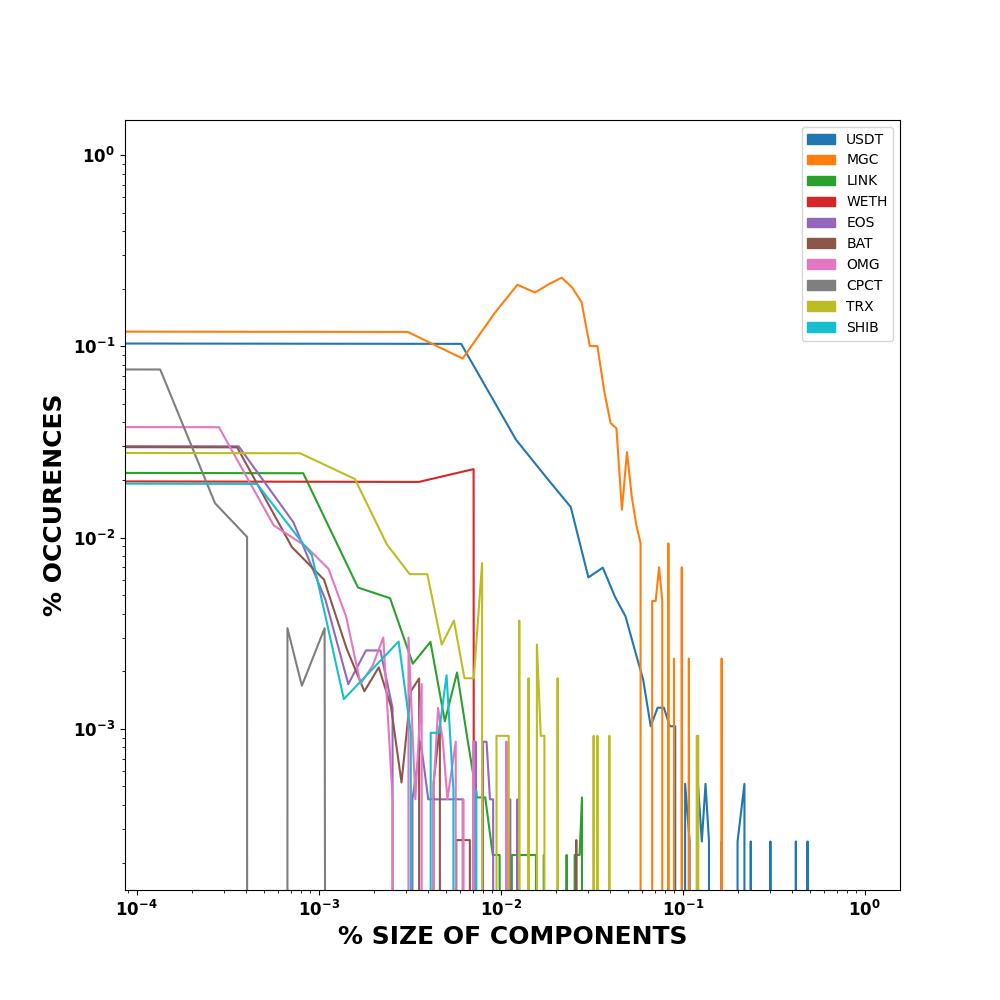
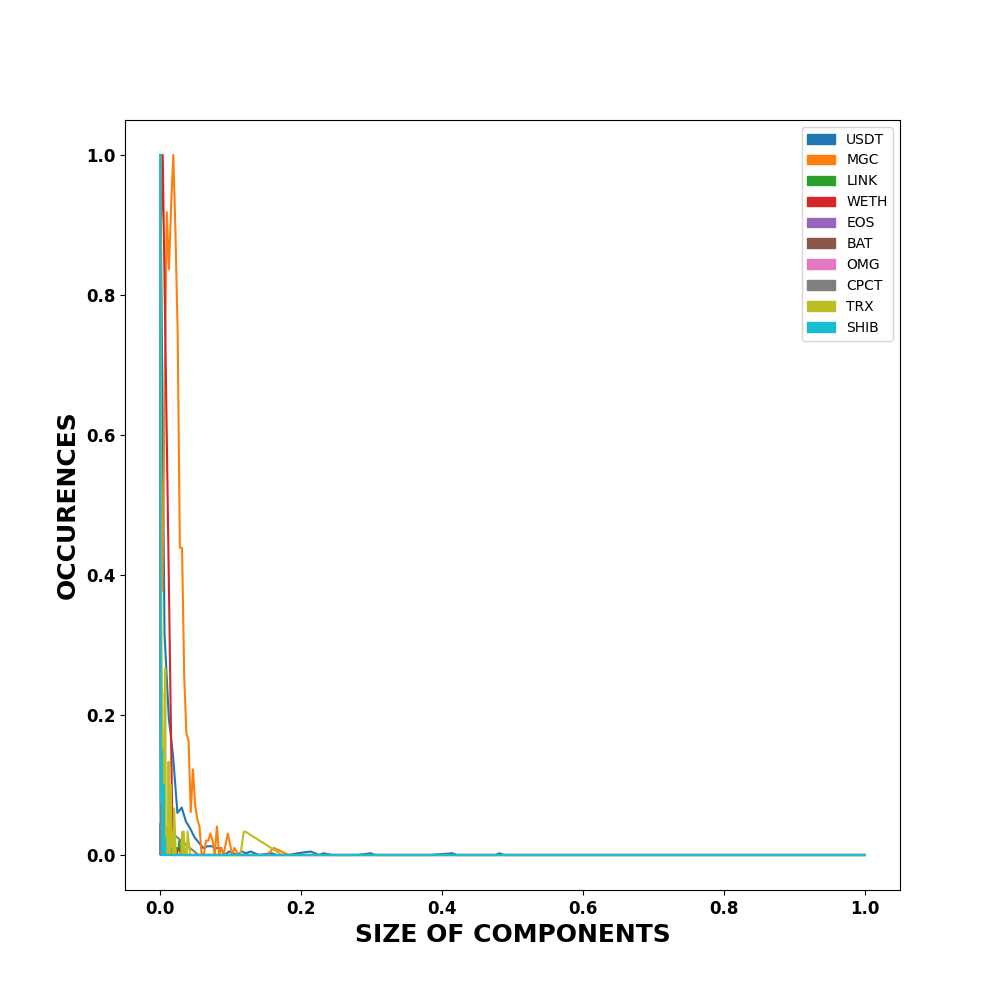
boxplot

diff --git a/make_graph_distr.py b/make_graph_distr.py
@@ -5,7 +5,9 @@ import networkit as nk
 import matplotlib.ticker as mtick
 import pandas as pd
 import csv
+from pandas.io.formats import style
 from sklearn.preprocessing import MinMaxScaler 
+import seaborn as sns
 
 cname = {1:"USDT", 2:"MGC", 3:"LINK", 4:"WETH", 5:"EOS", 6:"BAT", 7:"OMG", 8:"CPCT", 9:"TRX", 10:"SHIB"}
 
@@ -14,6 +16,9 @@ csv_writer = csv.writer(fo)
 csv_writer.writerow(['contratto','media','varianza'])
 
 list_patch = []
+ax = None
+#bdf = pd.DataFrame(columns=['USDT','MGC','LINK','WETH','EOS','BAT','OMG','CPCT','TRX','SHIB'])
+ldf = []
 for color,n in zip(mcolors.TABLEAU_COLORS,range(1,11)):
 
     fname = "./edgelist/edgelist_"+str(n)+".csv"
@@ -32,9 +37,9 @@ for color,n in zip(mcolors.TABLEAU_COLORS,range(1,11)):
     dfg = df.groupby(['degree']).size().reset_index(name='counts')
 
     #media
-    media = df['degree'].mean()
-    var = df['degree'].var()
-    csv_writer.writerow([n,media,var])
+    #media = df['degree'].mean()
+    #var = df['degree'].var()
+    #csv_writer.writerow([n,media,var])
 
     #NORMALIZZARE - MAX
     #nt = gu.numberOfNodes()
@@ -46,18 +51,30 @@ for color,n in zip(mcolors.TABLEAU_COLORS,range(1,11)):
     #list_gradi_norm = [((int(gradi)/int(max_degree))*100) for gradi in list_gradi_sorted]
 
     #NORMALIZZO - MINMAX
-    #print(dfg)
+    print(dfg)
+    #dfg = dfg.iloc[1: , :]
     scaler = MinMaxScaler()
-    dfg_norm = pd.DataFrame(scaler.fit_transform(dfg))
+    dfg_norm = pd.DataFrame(scaler.fit_transform(dfg),columns=['degree','counts'])
+    #print(dfg_norm.dtypes)
     #print(dfg_norm)
     #RECUPERO LE DUE LISTE DA PLOTTARE 
-    list_occ_norm = dfg_norm[1].tolist()
-    list_gradi_norm = dfg_norm[0].tolist()
-    print (list_occ_norm)
-    print(list_gradi_norm)
+    #list_occ_norm = dfg_norm[1].tolist()
+    #list_gradi_norm = dfg_norm[0].tolist()
+    #print (list_occ_norm)
+    #print(list_gradi_norm)
     #PLOTTO
-    plt.plot(list_gradi_norm,list_occ_norm)
-    
+    #plt.plot(list_gradi_norm,list_occ_norm)
+    #plt.xscale("log")
+    #plt.yscale("log")
+
+    #PLOT GRAFICO NORMALIZZATO 
+    #ax = dfg_norm.plot(x='degree',y='counts',kind='line',ax=ax)
+
+    #BOXPLOT
+    #bdf[cname[n]] = df['degree']
+    #bx = dfg.boxplot()
+    ldf.append(dfg.assign(Location=cname[n]))
+
     #SCRIVI IL NOME CONTRATTO AL POSTO DEL NUMERO
     patch = mpatches.Patch(color=color, label=cname[n])
     list_patch.append(patch)
@@ -71,14 +88,17 @@ for color,n in zip(mcolors.TABLEAU_COLORS,range(1,11)):
 #print("degree di "+str(i)+" : "+str(list_res[i]))
 
 #PLOTTO LEGENDA E SALVO FILE
-plt.xscale("log")
-plt.yscale("log")
+plt.yscale('log')
+cdf = pd.concat(ldf)
+print (cdf)
+ax = sns.boxplot(x="Location", y="degree", data=cdf)    #dfg.boxplot(column=['USDT','MGC','LINK','WETH','EOS','BAT','OMG','CPCT','TRX','SHIB'])
 plt.xticks(fontsize=12,weight='bold')
 plt.yticks(fontsize=12,weight='bold')
-plt.ylabel('% OCCURENCES', fontsize=18,weight='bold')
-plt.xlabel('% NODE DEGREE',fontsize=18,weight='bold')
+plt.ylabel('DEGREE', fontsize=18,weight='bold')
+plt.xlabel('CONTRACTS',fontsize=18,weight='bold')
+plt.title('NODES DEGREE DISTRIBUTION',fontsize=18,weight='bold')
 f = plt.figure(num=1)
 f.set_figheight(10)
 f.set_figwidth(10)
-plt.legend(fontsize=15,handles=list_patch)    
+#plt.legend(fontsize=15,handles=list_patch)    
 plt.savefig('./risultati_analisi/distr_grado_normV1.png')

diff --git a/graph_distr_comp.py b/graph_distr_comp.py
@@ -9,6 +9,7 @@ cname = {1:"USDT", 2:"MGC", 3:"LINK", 4:"WETH", 5:"EOS", 6:"BAT", 7:"OMG", 8:"CP
 
 list_patch = []
 z=0
+ax = None
 #labels = []
 #ndf = pd.DataFrame(columns=['contratto','1','2','3','4','other'])
 for color,n in zip(mcolors.TABLEAU_COLORS,range(1,11)):
@@ -38,26 +39,27 @@ for color,n in zip(mcolors.TABLEAU_COLORS,range(1,11)):
 
     print(dfg)
     #NORMALIZZO MIN-MAX
+    dfg = dfg.iloc[1: , :]
     scaler = MinMaxScaler()
-    dfg_norm = pd.DataFrame(scaler.fit_transform(dfg))
+    dfg_norm = pd.DataFrame(scaler.fit_transform(dfg),columns=['size','counts'])
 
     print(dfg_norm)
     #RECUPERO LE DUE LISTE DA PLOTTARE 
-    list_occ_norm = dfg_norm[1].tolist()
-    list_size_norm = dfg_norm[0].tolist()
+    #list_occ_norm = dfg_norm[1].tolist()
+    #list_size_norm = dfg_norm[0].tolist()
 
     #plotto
-    plt.plot(list_size_norm,list_occ_norm)
+    ax = dfg_norm.plot(x='size',y='counts',kind='line',ax=ax)
     #SCRIVI NOME CONTRATTO AL POSTO DEL NUMERO
     patch = mpatches.Patch(color=color, label=cname[n])
     list_patch.append(patch)
 
-plt.xscale("log")
-plt.yscale("log")
+#plt.xscale("log")
+#plt.yscale("log")
 plt.xticks(fontsize=12,weight='bold')
 plt.yticks(fontsize=12,weight='bold')
-plt.ylabel('% OCCURENCES', fontsize=18,weight='bold')
-plt.xlabel('% SIZE OF COMPONENTS',fontsize=18,weight='bold')
+plt.ylabel('OCCURENCES', fontsize=18,weight='bold')
+plt.xlabel('SIZE OF COMPONENTS',fontsize=18,weight='bold')
 plt.legend(handles=list_patch)    
 f = plt.figure(num=1)
 f.set_figheight(10)
